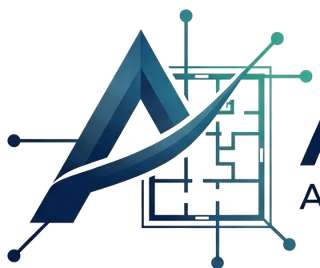
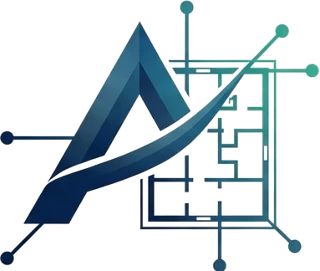
Emblème ARCHIVISION : découpe sans le début du mot
Claude-Session: https://claude.ai/code/session_01JJn6mtDGfxg8woaU5wEzAG

diff --git a/index.html b/index.html
@@ -964,7 +964,7 @@ body[data-ar] #app{visibility:hidden}
 <div id="splash" role="status" aria-live="polite">
   <div class="sp-stage" role="img" aria-label="ARCHIVISION, architecture en réalité augmentée">
     <div class="sp-grid"></div>
-    <img class="sp-mark" src="assets/emblem-320.webp" alt="" width="320" height="268">
+    <img class="sp-mark" src="assets/emblem-320.webp" alt="" width="320" height="271">
     <div class="sp-word"><b>ARCHI</b><b class="t">VISION</b></div>
     <p class="sp-tag">Architecture en réalité augmentée</p>
     <div class="sp-road" aria-hidden="true"><i></i></div>

diff --git a/src/parts/body.html b/src/parts/body.html
@@ -2,7 +2,7 @@
 <div id="splash" role="status" aria-live="polite">
   <div class="sp-stage" role="img" aria-label="ARCHIVISION, architecture en réalité augmentée">
     <div class="sp-grid"></div>
-    <img class="sp-mark" src="assets/emblem-320.webp" alt="" width="320" height="268">
+    <img class="sp-mark" src="assets/emblem-320.webp" alt="" width="320" height="271">
     <div class="sp-word"><b>ARCHI</b><b class="t">VISION</b></div>
     <p class="sp-tag">Architecture en réalité augmentée</p>
     <div class="sp-road" aria-hidden="true"><i></i></div>
